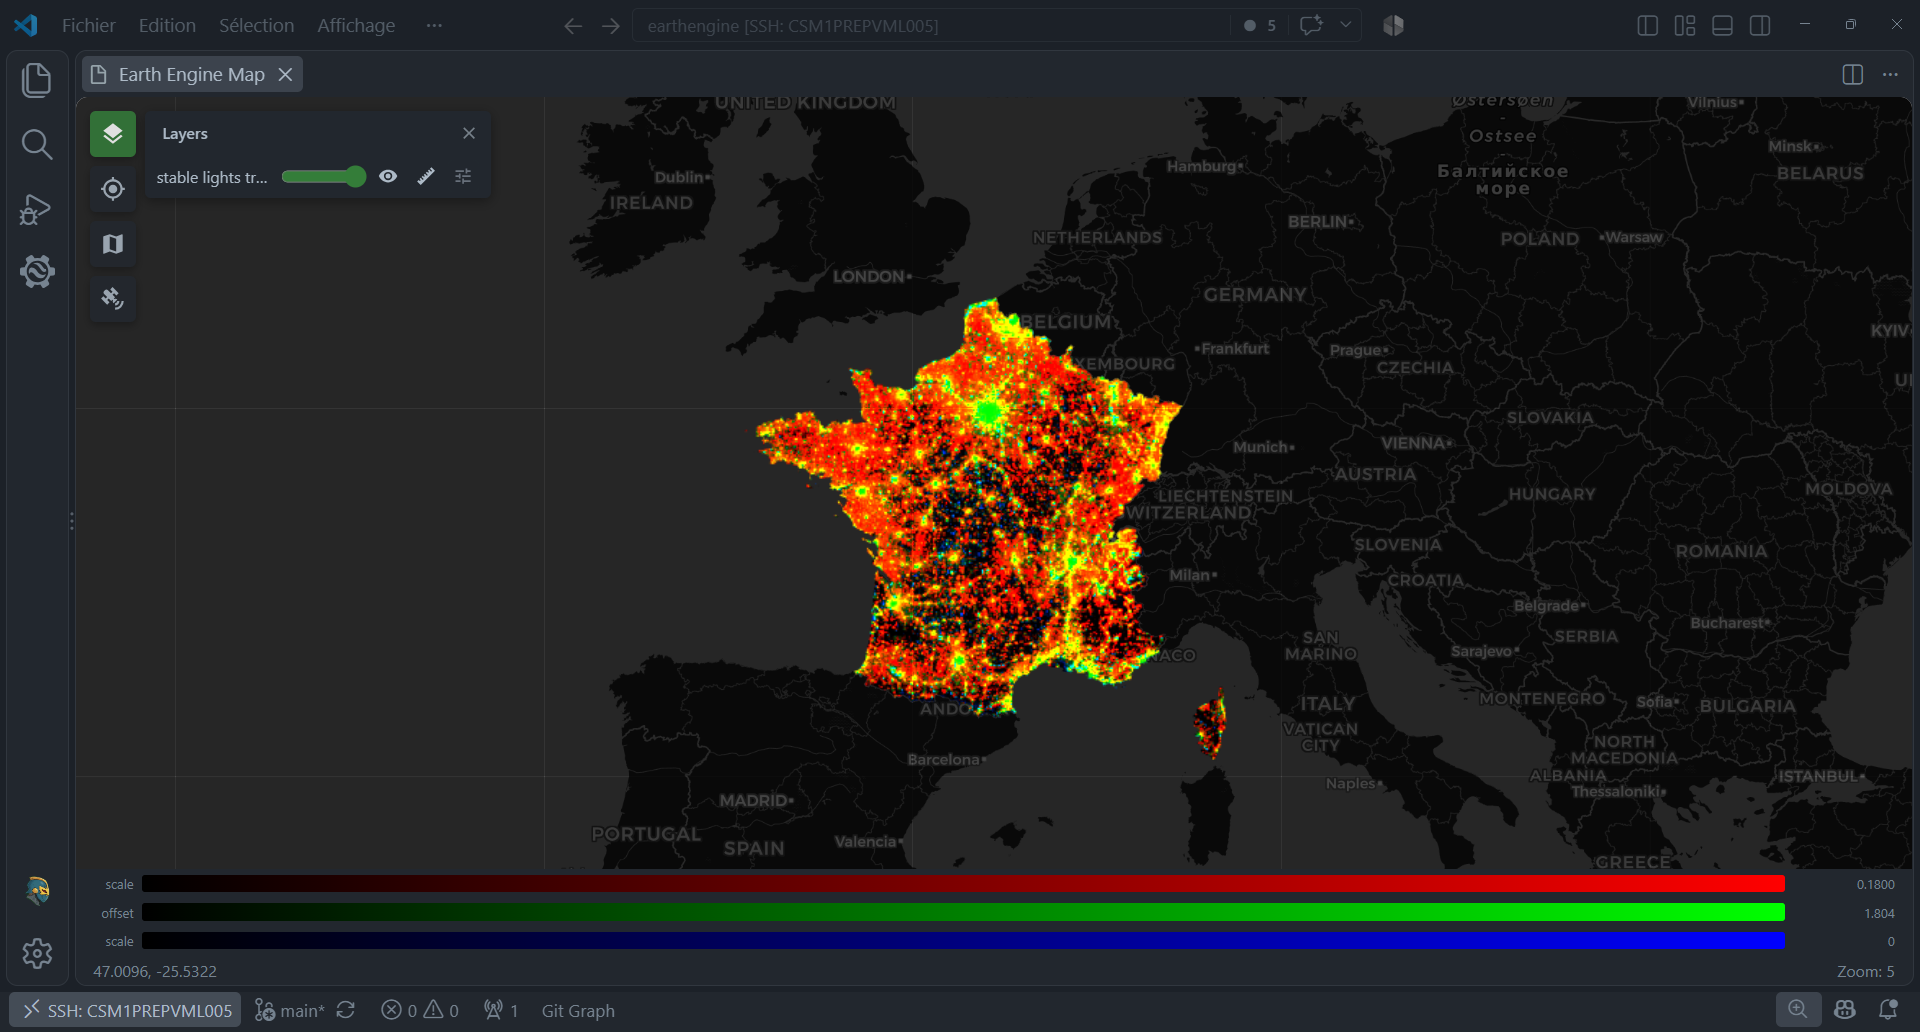
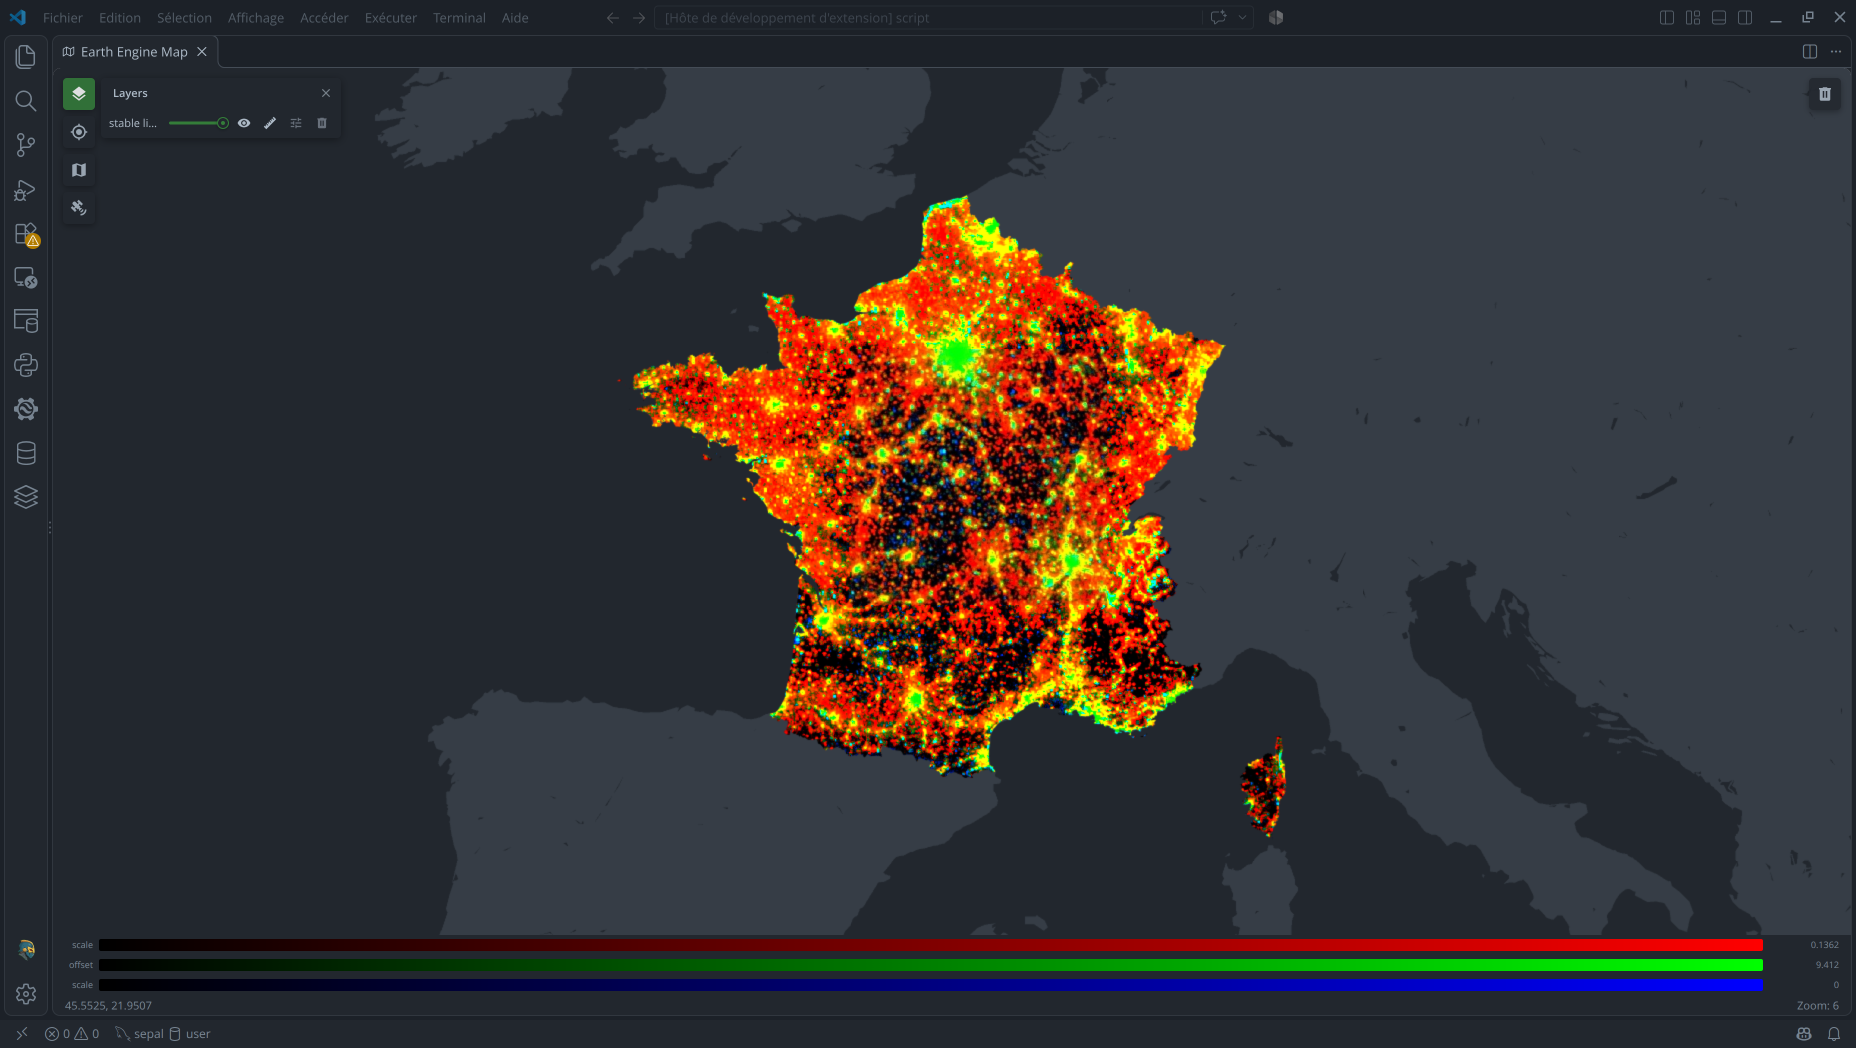
fix: add night light demo

diff --git a/src/editor/map/mapPanel.ts b/src/editor/map/mapPanel.ts
@@ -475,6 +475,42 @@ export class MapPanel extends EditorPanel {
     await this.setView({ lat: 46.6, lon: 2.4, zoom: 6 });
   }
 
+  /** Adds the DMSP-OLS stable-lights trend demo layer. */
+  private async demoNightLights(): Promise<void> {
+    await this.open();
+
+    const eeAny = (await ensureEe()) as any;
+    const france = eeAny
+      .FeatureCollection('FAO/GAUL/2015/level0')
+      .filter(eeAny.Filter.eq('ADM0_NAME', 'France'));
+    const region = france.geometry();
+    const collection = eeAny
+      .ImageCollection('NOAA/DMSP-OLS/NIGHTTIME_LIGHTS')
+      .select('stable_lights')
+      .map((image: any) => {
+        const year = eeAny.Date(image.get('system:time_start')).get('year').subtract(1991);
+        return eeAny.Image(year).byte().addBands(image);
+      });
+    const trend = collection.reduce(eeAny.Reducer.linearFit()).clip(region);
+    const serialized = eeAny.Serializer.toJSON(trend) as string;
+
+    await this.layerManager.add(
+      {
+        serialized,
+        visParams: {
+          min: 0,
+          max: [0.18, 20, -0.18],
+          bands: ['scale', 'offset', 'scale'],
+        },
+        name: 'stable lights trend',
+        shown: true,
+        opacity: 1.0,
+      },
+      (m) => this.post(m),
+    );
+    await this.setView({ lat: 46.6, lon: 2.4, zoom: 6 });
+  }
+
   // ==================================================================
   // PROGRAMMATIC API
   // ==================================================================
@@ -623,6 +659,9 @@ export class MapPanel extends EditorPanel {
       vscode.commands.registerCommand('earthengine.map.demo', () => this.demo()),
       vscode.commands.registerCommand('earthengine.map.demoCollection', () =>
         this.demoCollection(),
+      ),
+      vscode.commands.registerCommand('earthengine.map.demoNightLights', () =>
+        this.demoNightLights(),
       ),
       this,
     );

diff --git a/src/ai/earthEngineCommandTool.ts b/src/ai/earthEngineCommandTool.ts
@@ -13,6 +13,8 @@ export const AI_COMMANDS: Readonly<Record<string, string>> = {
     'Open the map and add one layer for each visualization preset on projects/earthengine-extension/assets/demo-image.',
   'earthengine.map.demoCollection':
     'Open the map and add one layer for each visualization preset on projects/earthengine-extension/assets/demo-collection.',
+  'earthengine.map.demoNightLights':
+    'Open the map and render the NOAA DMSP-OLS stable-lights trend.',
   'earthengine.openAssetsPanel': 'Open the asset manager panel.',
   'earthengine.openExportTasksPanel': 'Open the export tasks table.',
   'earthengine.openImportTasksPanel': 'Open the import tasks table.',
